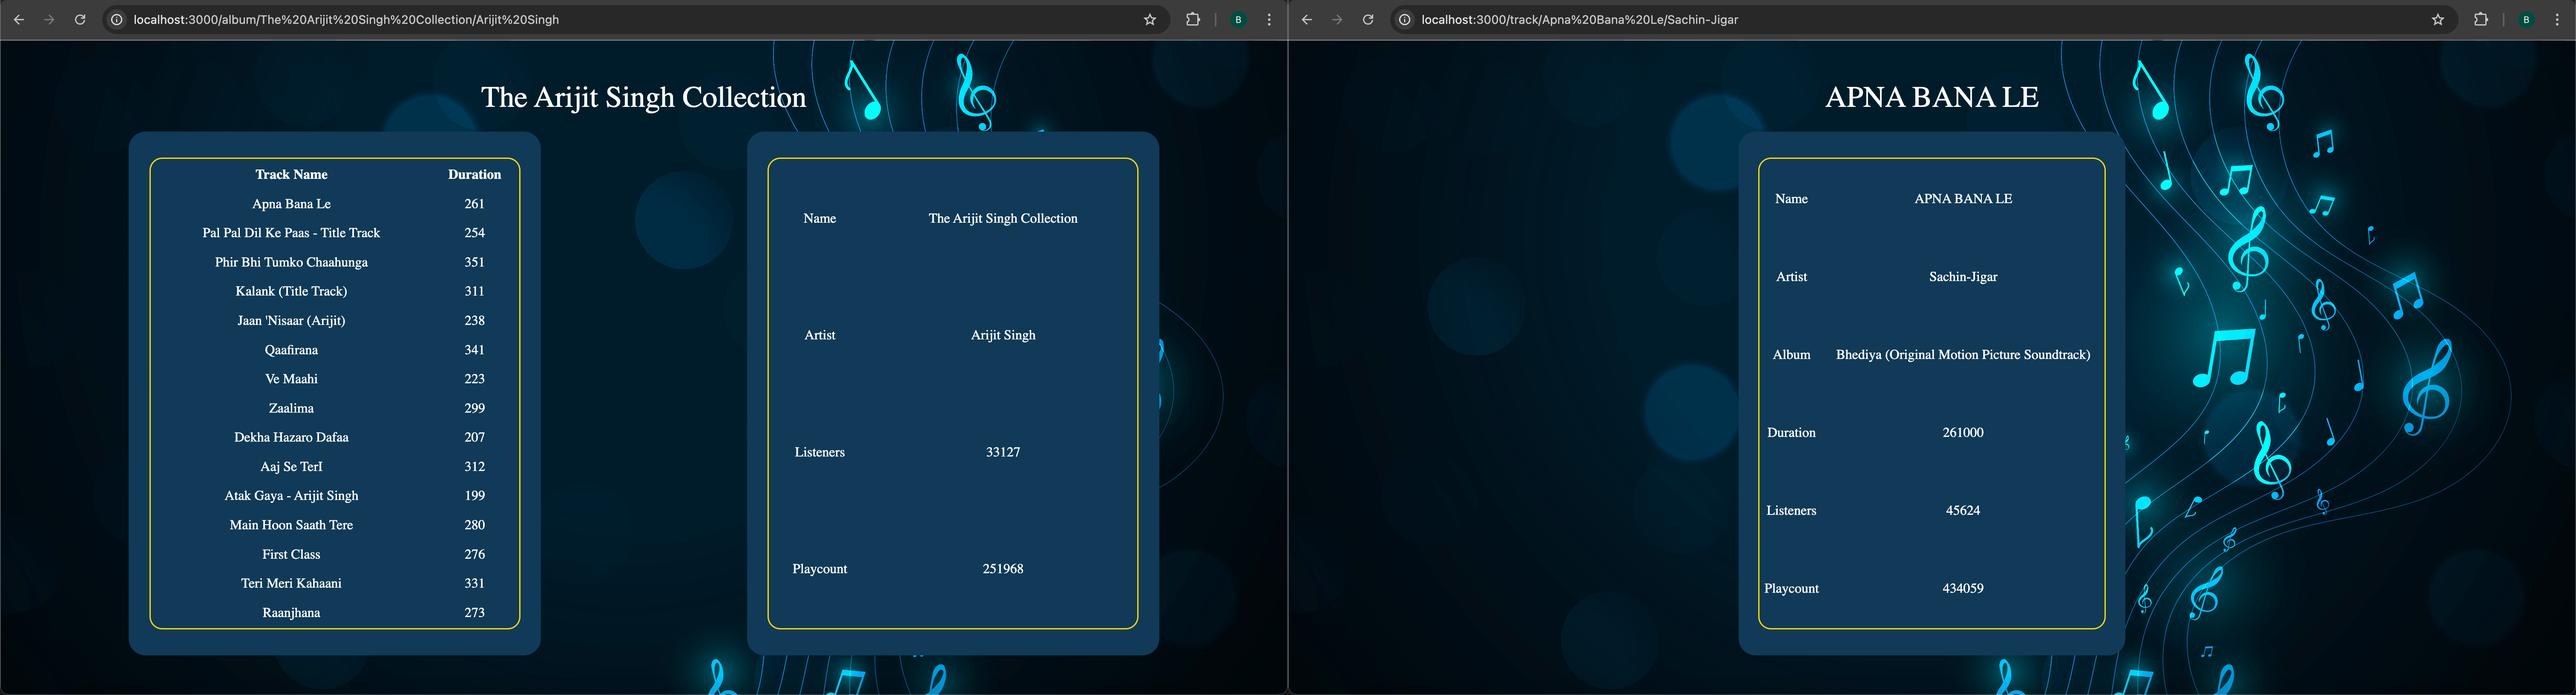
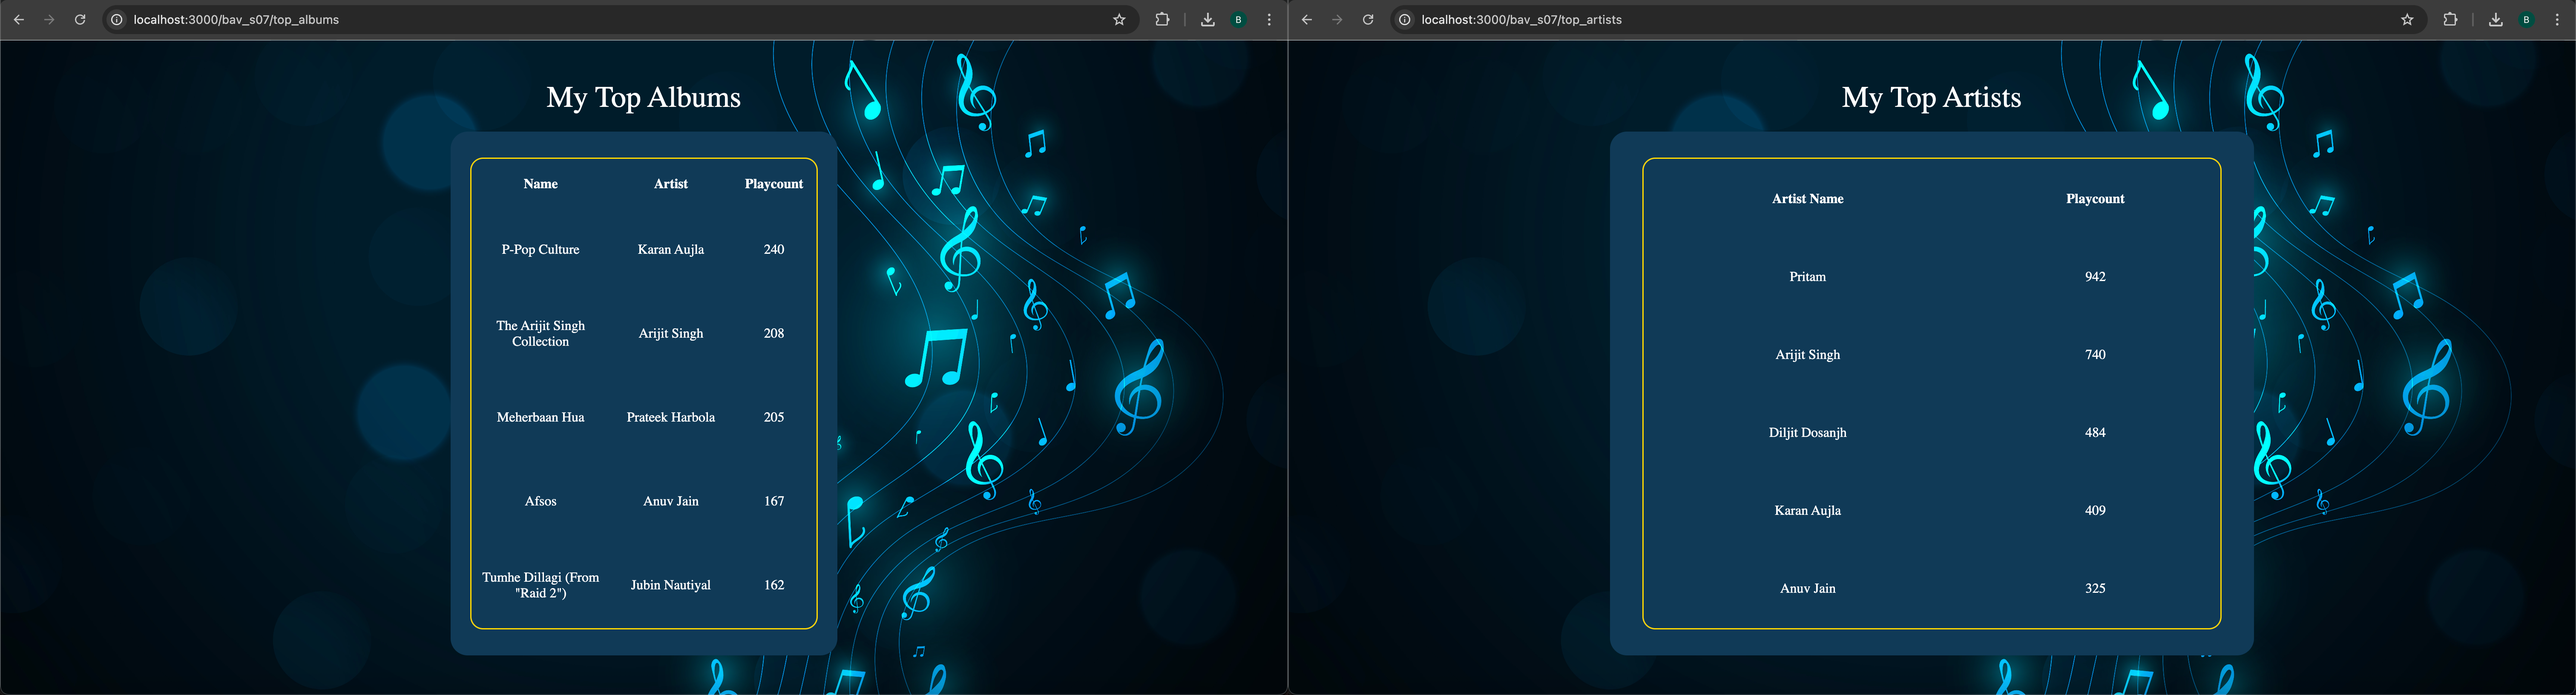
Finished Project Completely

diff --git a/README.md b/README.md
@@ -79,7 +79,7 @@ Users can view details for a selected artist
 ![Homepage](Screenshots/Homepage_screenshot.png)
 ![Dashboard](Screenshots/Dashboard_screenshot.png)
 ![Friends](Screenshots/Friendlist_screenshot.png)
-### Top Albums/Top Tracks/Top Artists
+### Top Albums/Top Artists/Top Tracks
 ![Top Albums and Top Artists](Screenshots/TopAlbumsAndTopArtists.png)
 ![Top Tracks](Screenshots/Toptracks_screenshot.png)
 ### Album Information/Song Information/Artist Information
